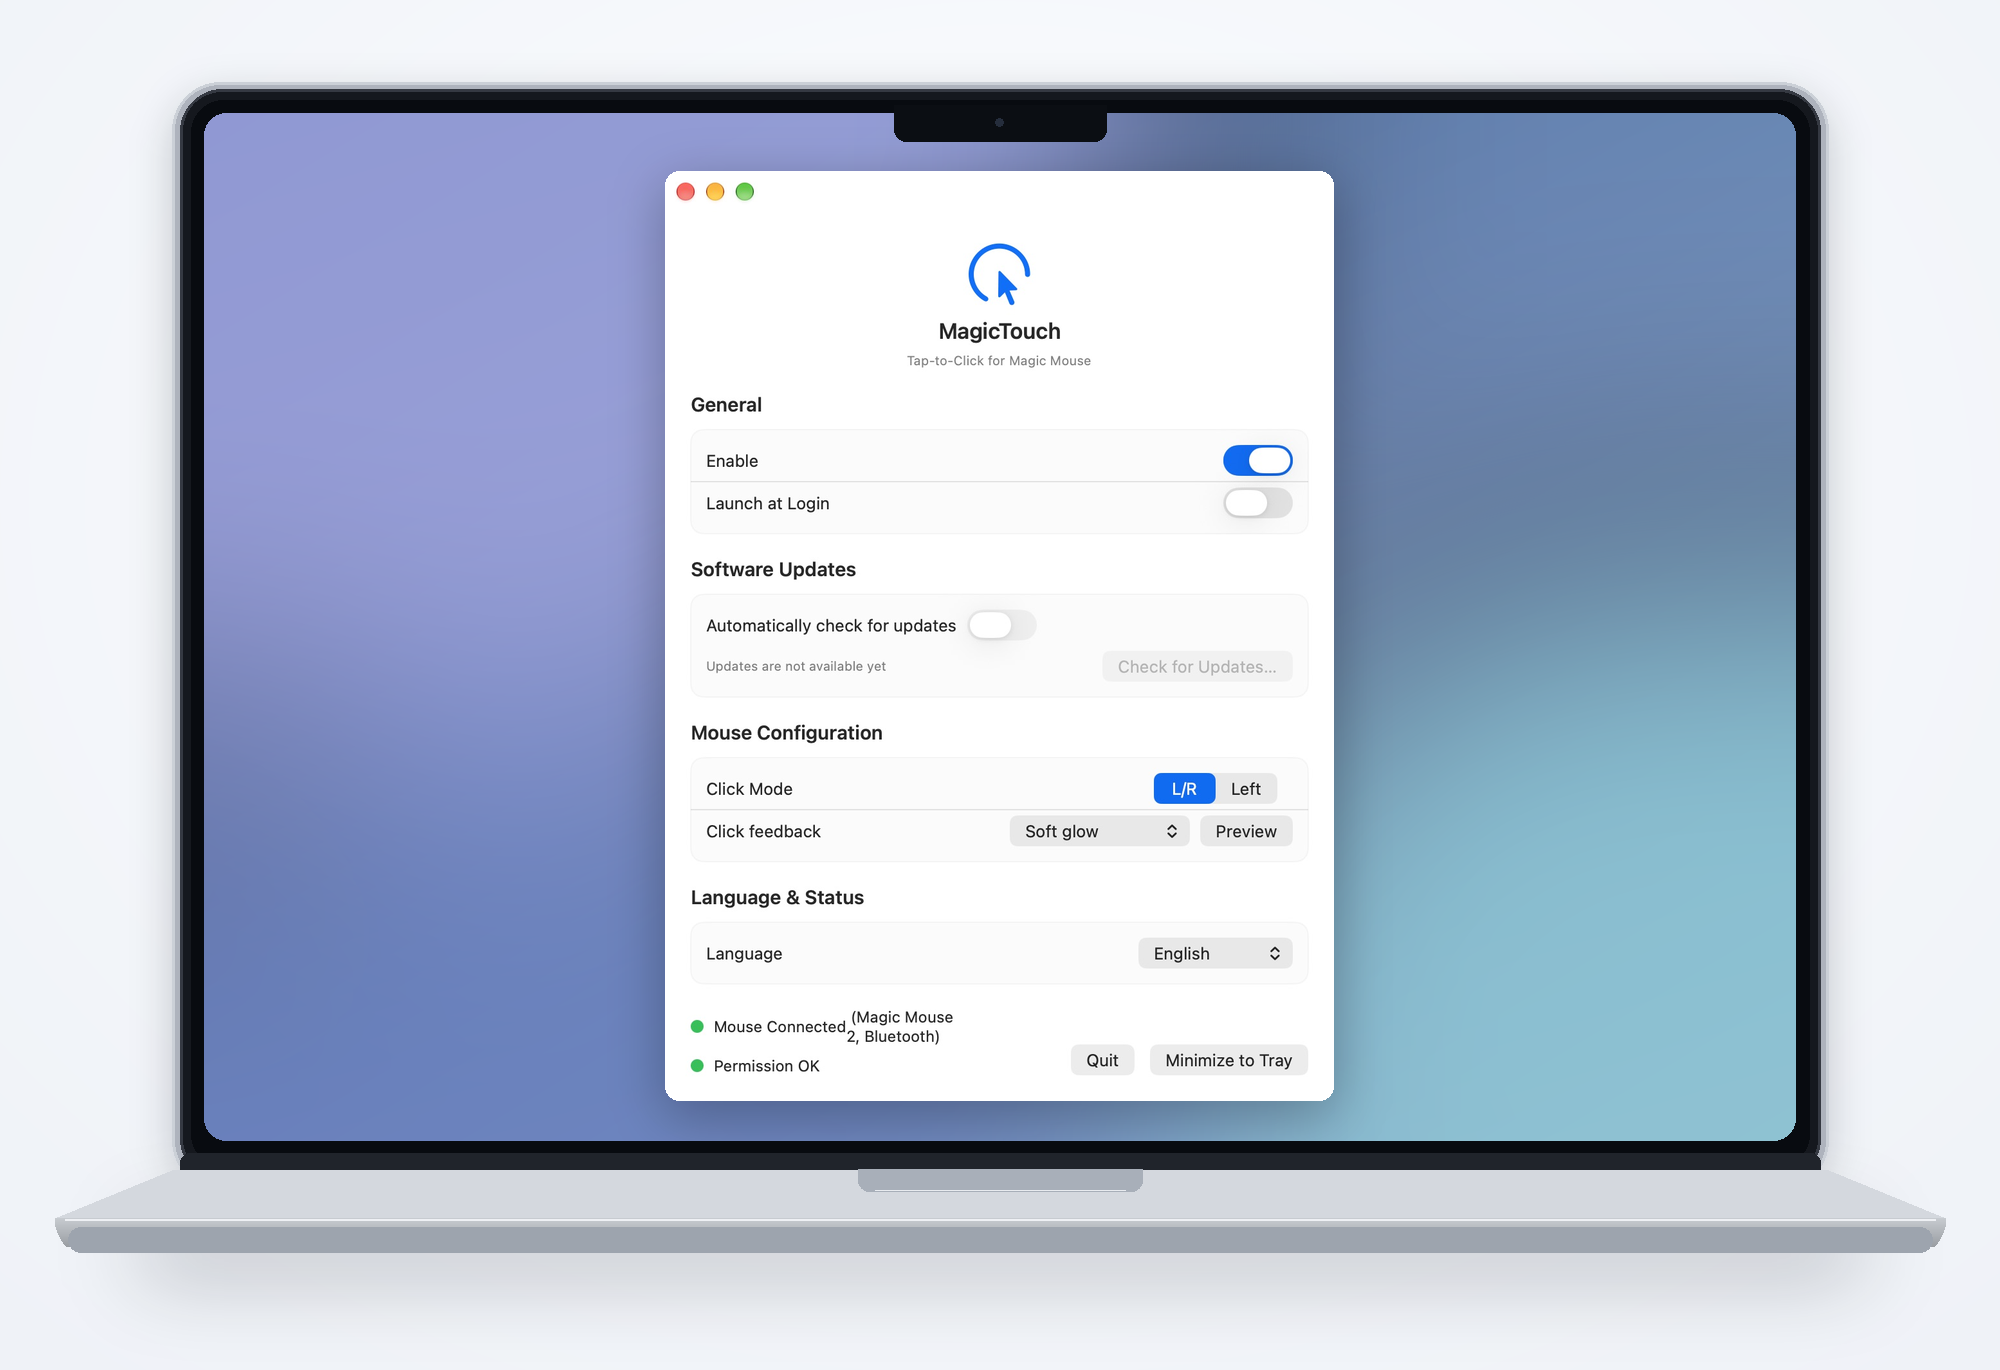
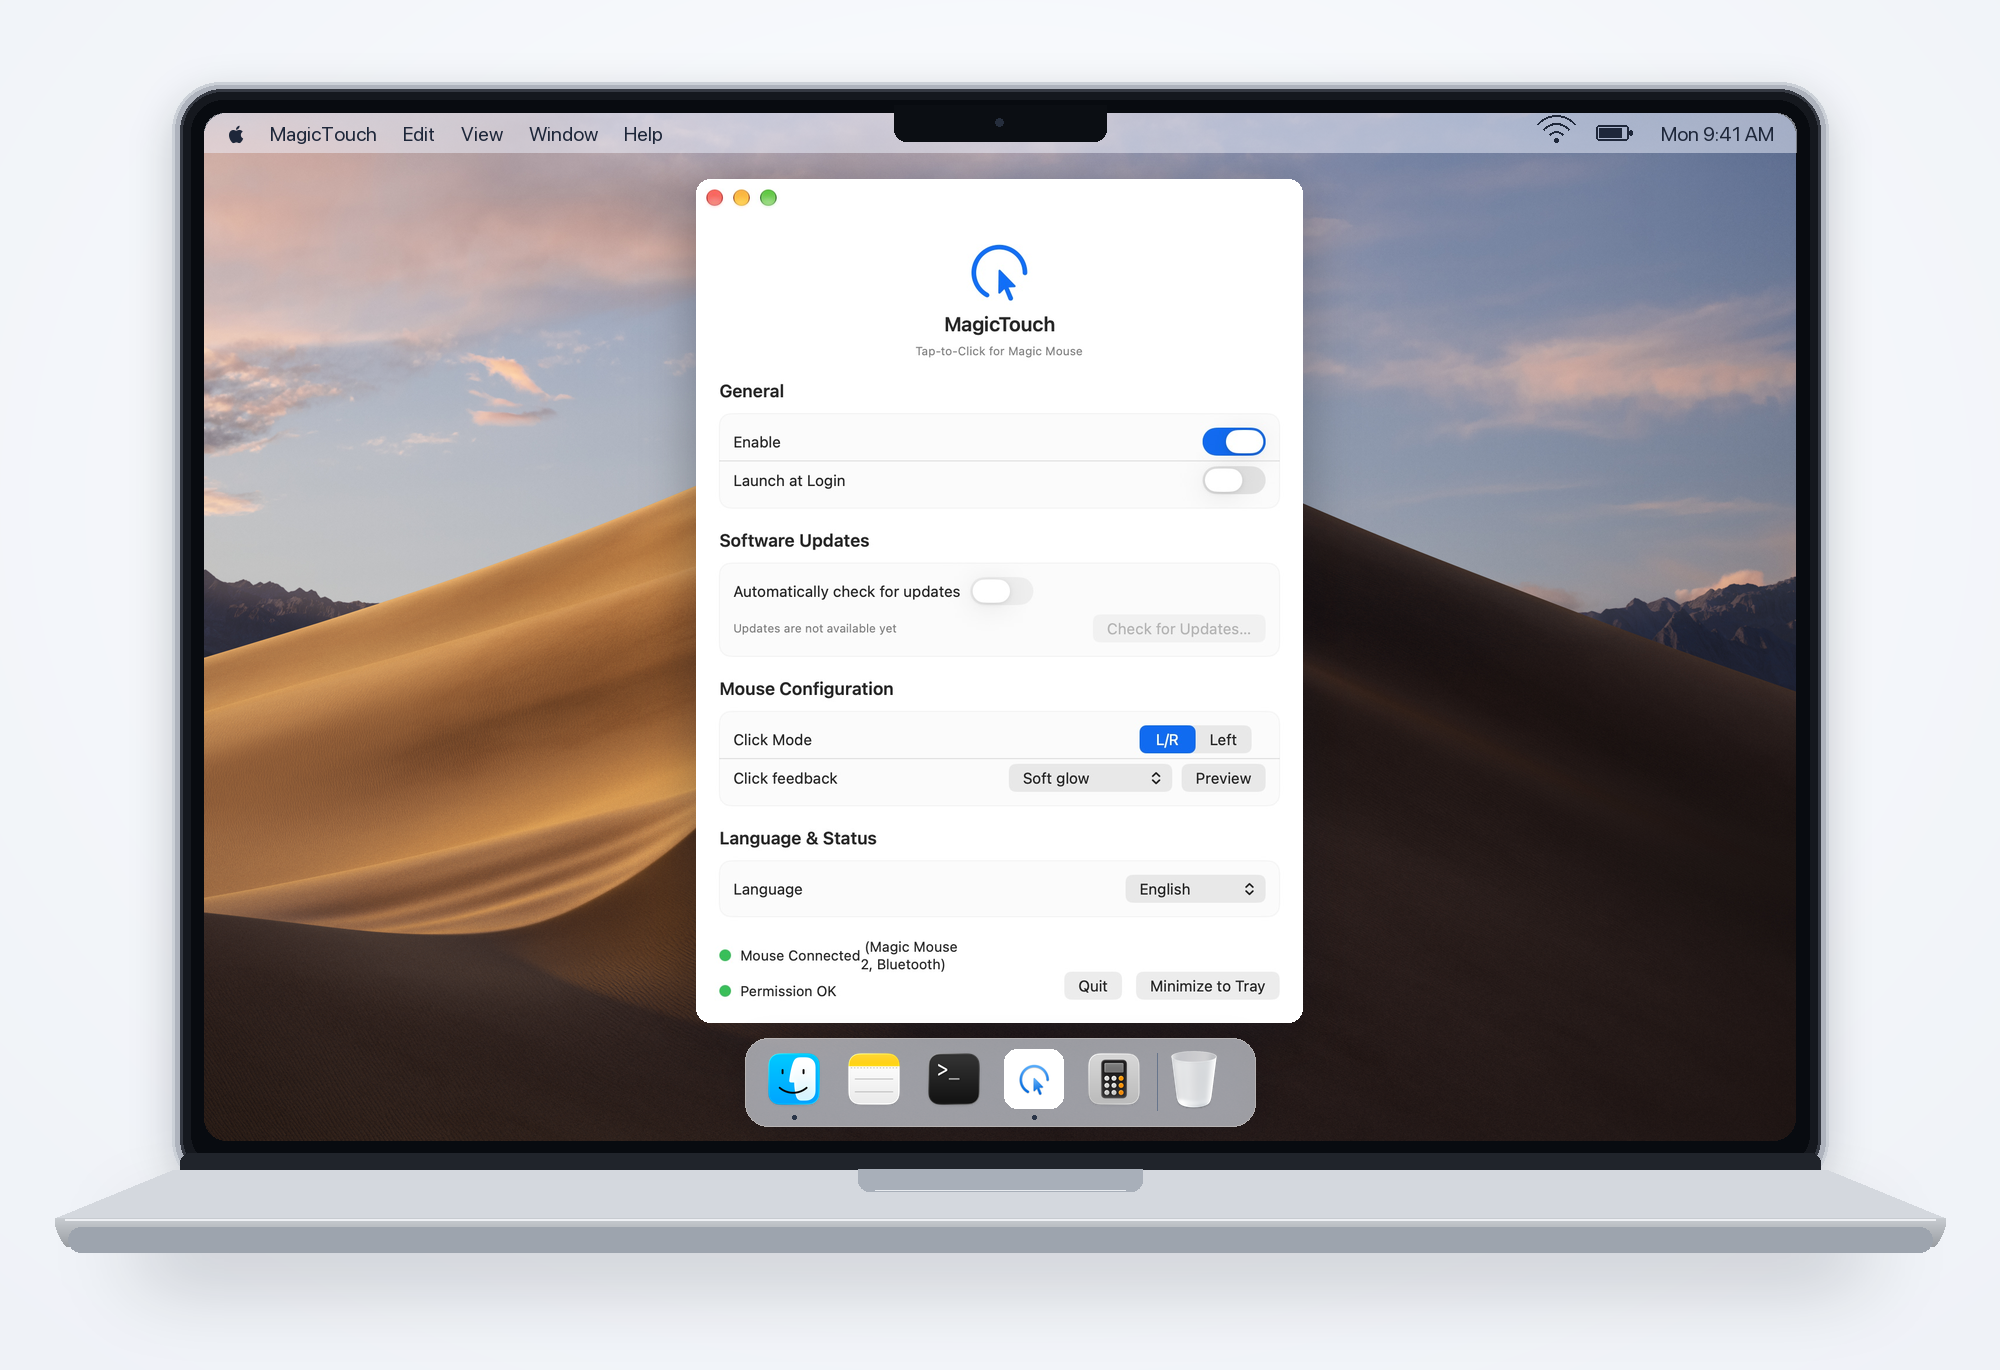
Show app in macOS desktop mockup with Mojave wallpaper

diff --git a/README.md b/README.md
@@ -8,7 +8,7 @@ MagicTouch is a macOS menu bar app that turns light taps on an Apple Magic Mouse
 
 <p align="center">
   <a href="docs/images/settings-en.png">
-    <img src="docs/images/macbook-preview.png" width="960" alt="MagicTouch running inside a MacBook-style presentation frame">
+    <img src="docs/images/macbook-preview.png" width="960" alt="MagicTouch on a macOS desktop with Mojave wallpaper, menu bar, and Dock, inside a MacBook frame">
   </a>
 </p>
 

diff --git a/README.zh-CN.md b/README.zh-CN.md
@@ -8,7 +8,7 @@ A macOS menu bar app that brings tap-to-click to Apple Magic Mouse.
 
 <p align="center">
   <a href="docs/images/settings-en.png">
-    <img src="docs/images/macbook-preview.png" width="960" alt="MacBook 展示框中的 MagicTouch 英文设置界面">
+    <img src="docs/images/macbook-preview.png" width="960" alt="MacBook 展示框中的 MagicTouch 英文界面，搭配 macOS Mojave 壁纸、菜单栏和 Dock">
   </a>
 </p>
 
